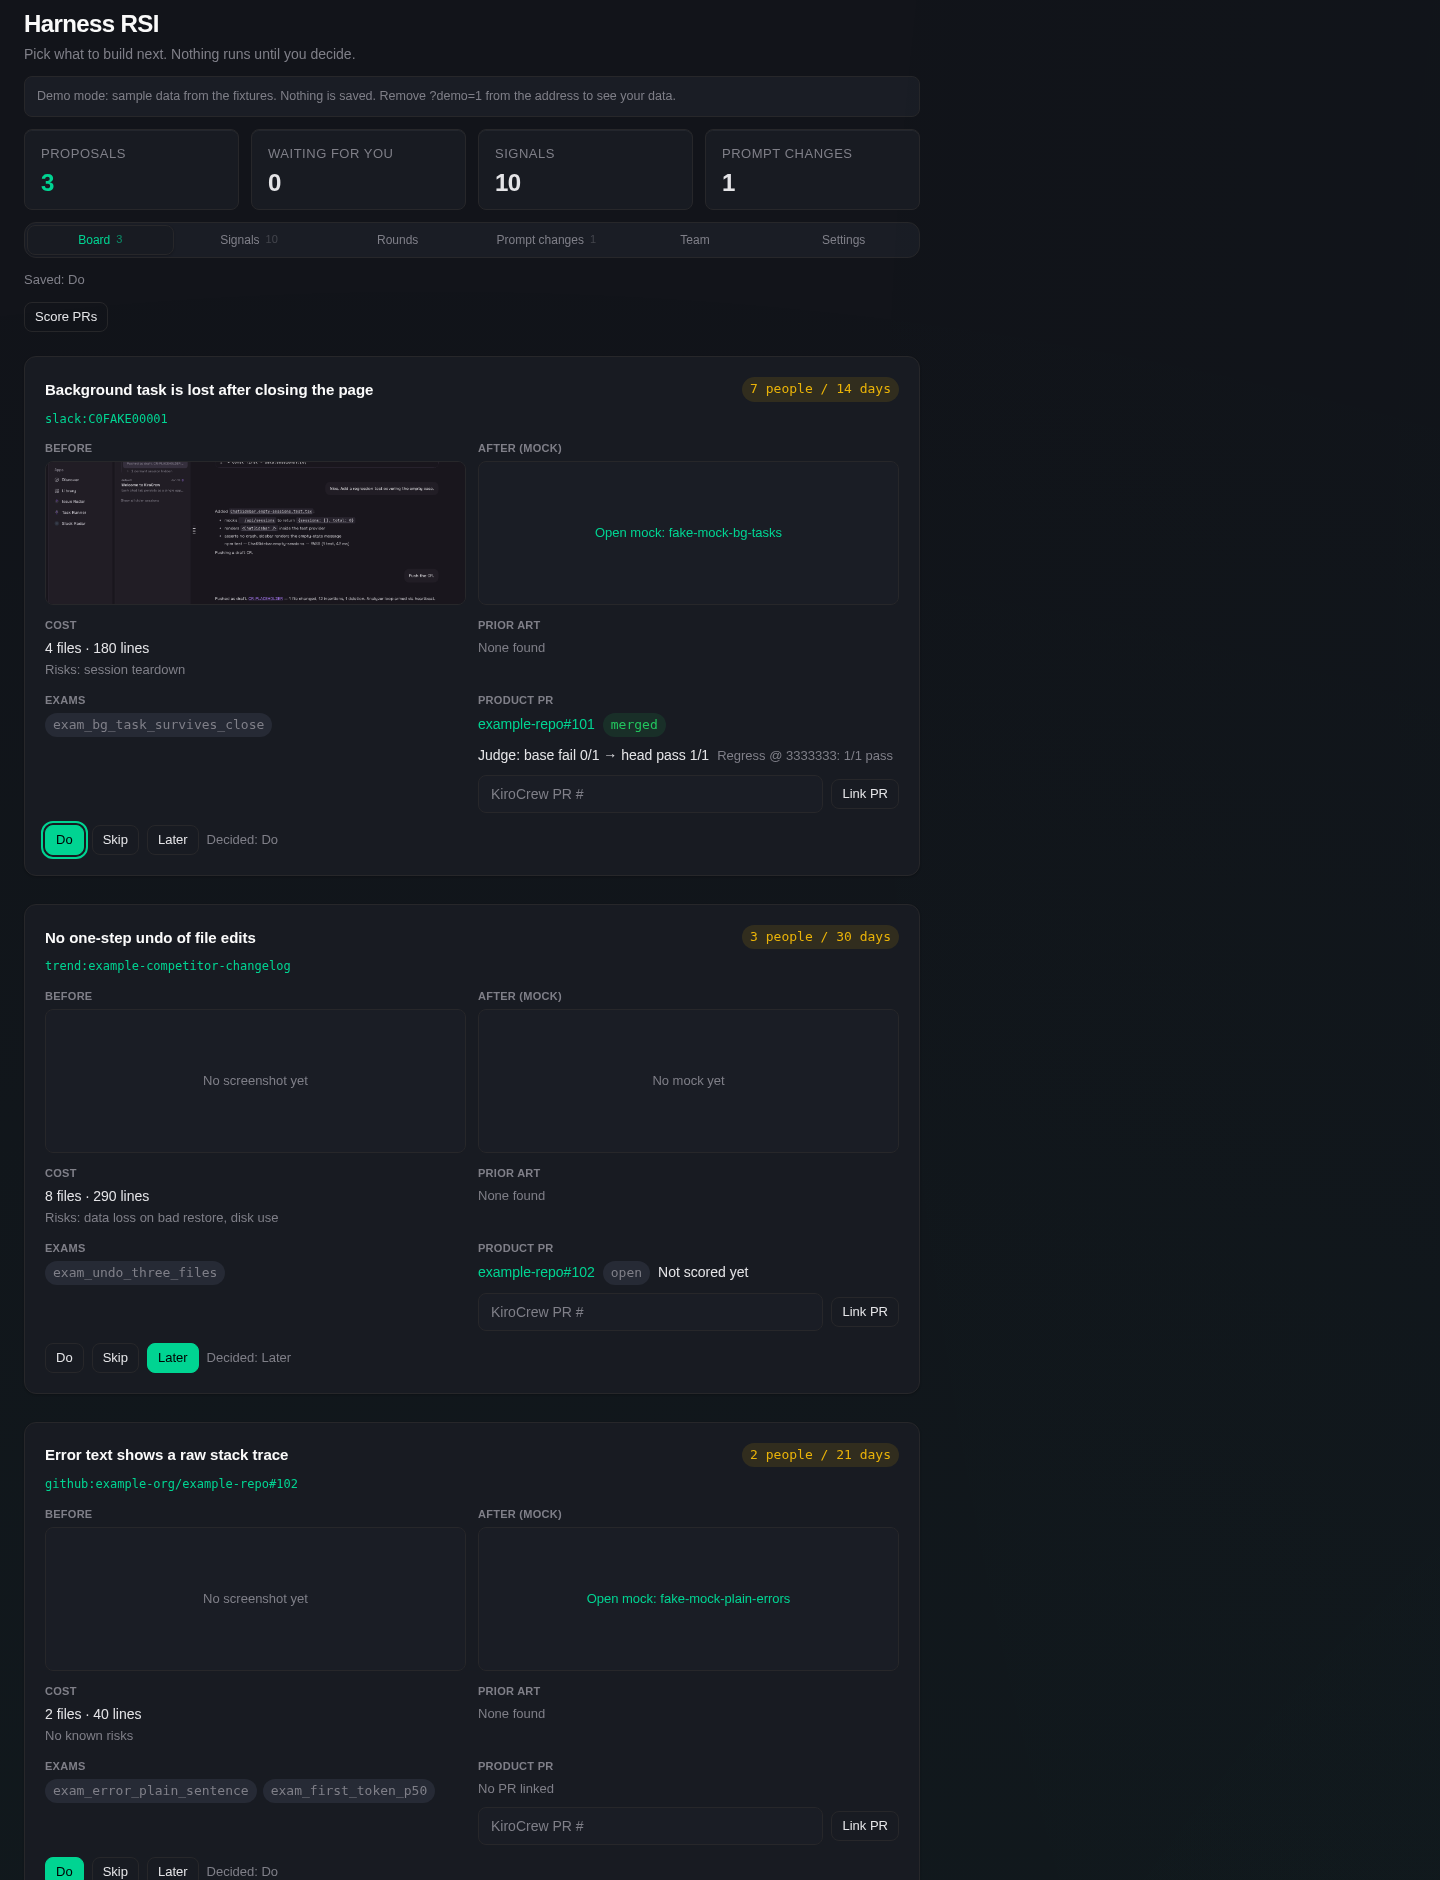
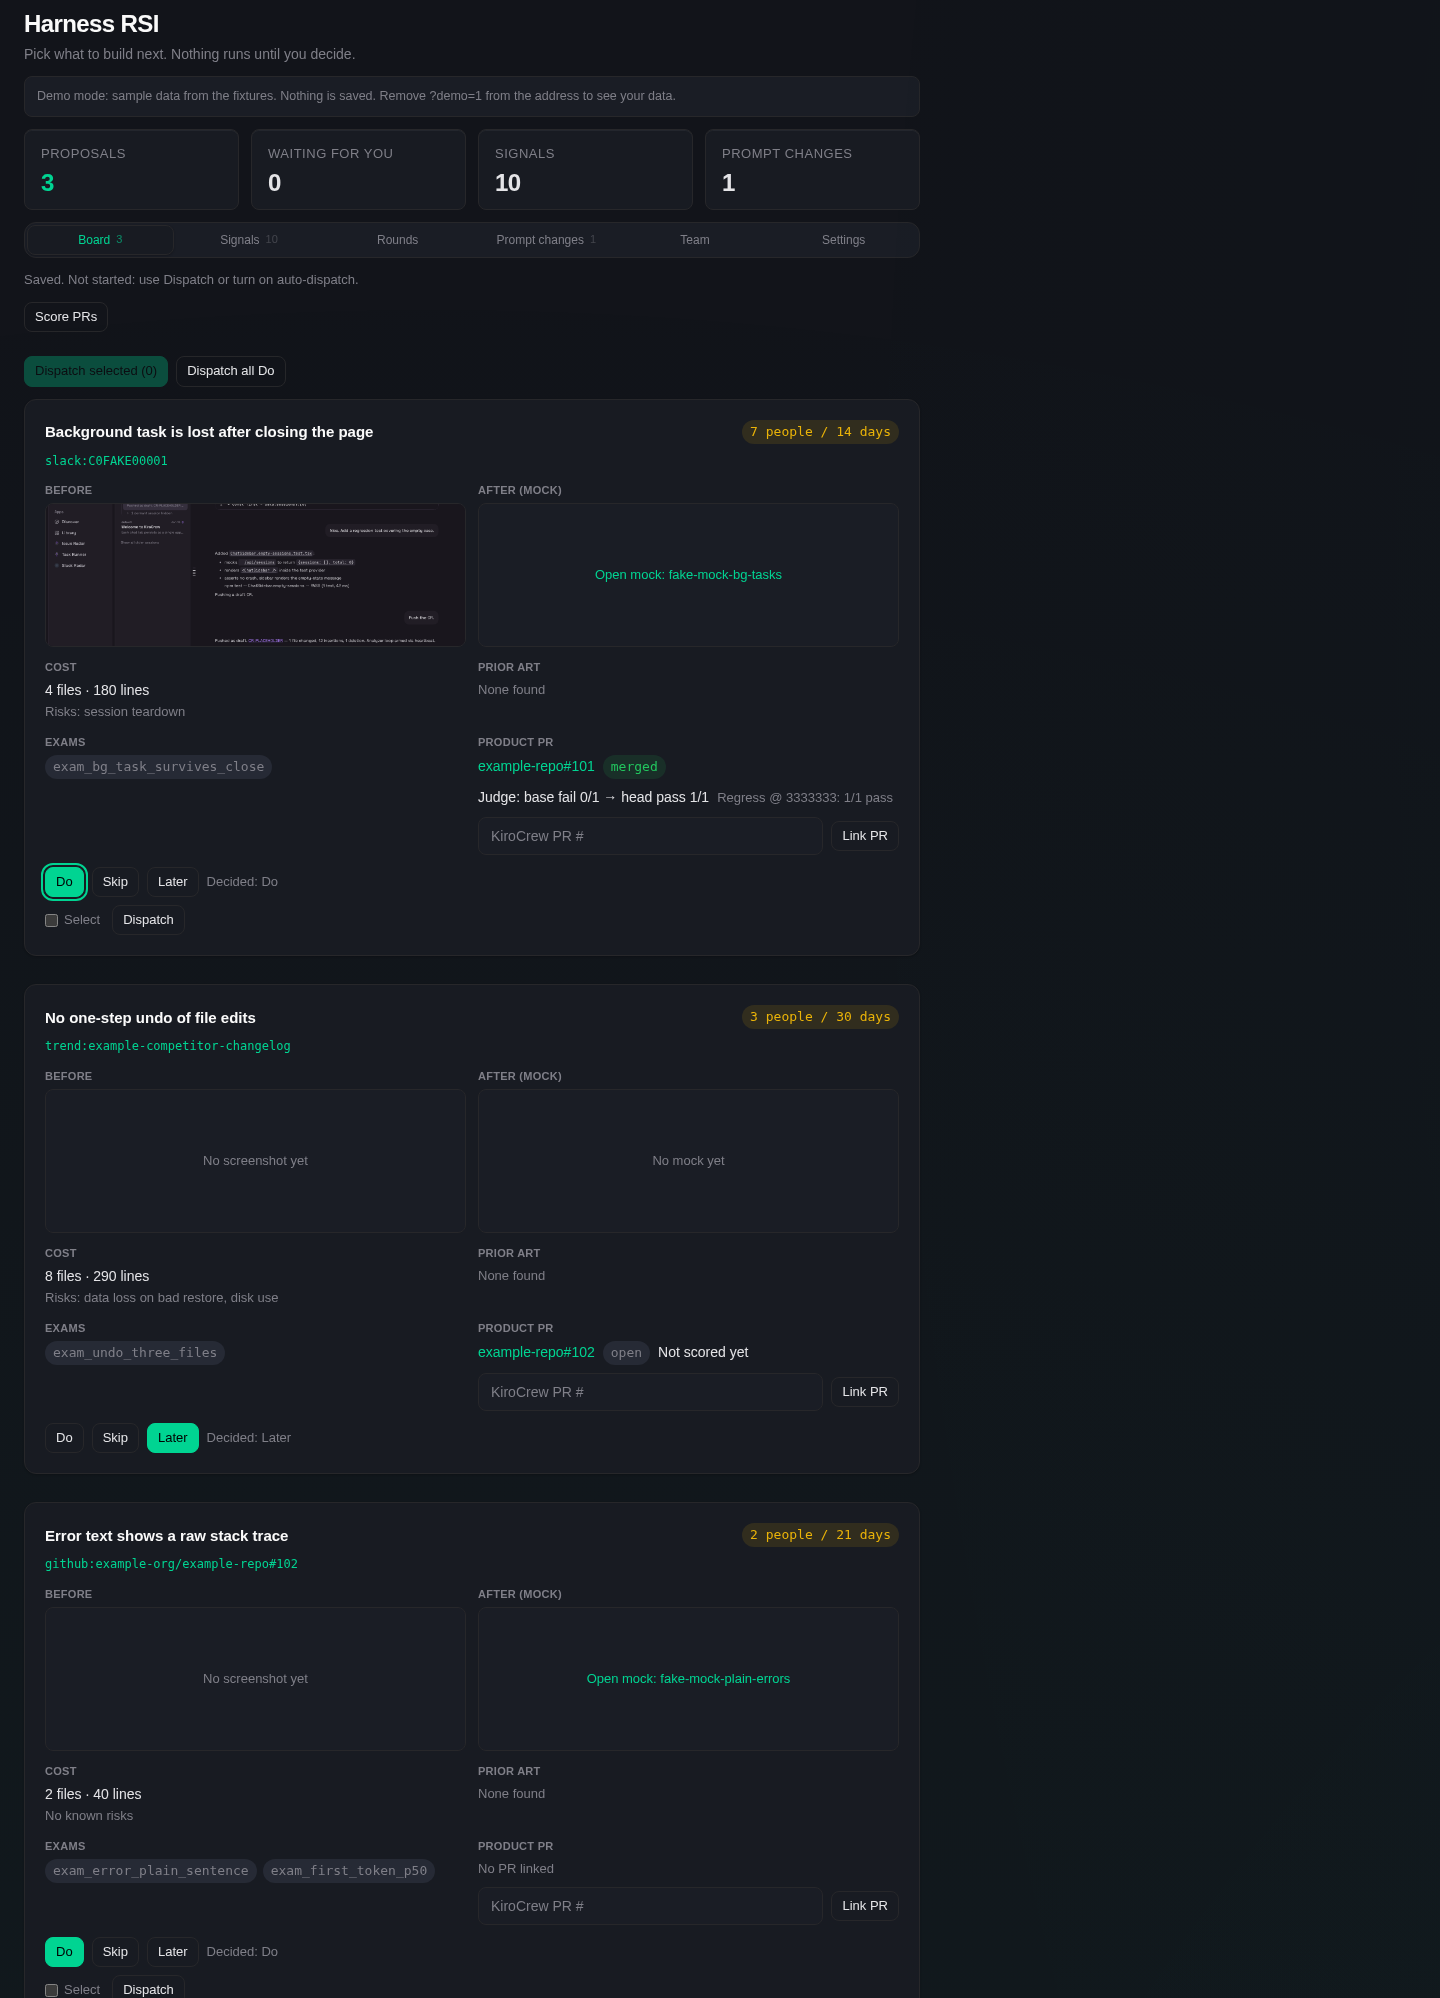
feat(dispatch): Dispatch button and batch dispatch, independent of auto-dispatch
POST /dispatch/start {proposal_ids} starts chosen Do cards whether
auto_dispatch is on or off, under the same allowlist, daily cap and
single-flight as on_do. One result per id: started, already, over_cap,
not_do or error. A refusal writes no row.

Board: a Dispatch button and a check box on each Do card with no live
chat, Dispatch selected (N) and Dispatch all Do; results show inline
with a link to the worker chat. Do with auto-dispatch off says how to
start it. Strings in en and zh; demo mode fakes the dispatch.

diff --git a/backend/dispatch.py b/backend/dispatch.py
@@ -1,7 +1,8 @@
 """Auto-dispatch, off by default: the owner's 做 on a proposal card opens ONE worker chat that builds it.
 
 Settings (``auto_dispatch``, the target-repo allowlist, the daily cap) live in the vault; only the
-owner-only ``POST /dispatch`` writes them. A dispatch goes through the gateway's ordinary app API with
+owner-only ``POST /dispatch`` writes them. ``POST /dispatch/start`` is the owner's Dispatch button: it
+starts chosen 做 cards whatever ``auto_dispatch`` says, under the same allowlist, cap and single-flight. A dispatch goes through the gateway's ordinary app API with
 this app's own token: ``POST /api/apps/harness-rsi/token`` -> ``POST /api/chat/slots`` (an app-owned
 chat the owner sees in the sidebar) -> ``POST /api/chat`` with the seed; the turn runs on after the
 stream is closed. ``dispatches.jsonl`` holds one row per change; the newest per card is
@@ -15,6 +16,7 @@ import datetime as dt
 import json
 import re
 import threading
+import urllib.parse
 
 from . import prompt_changes, settings, store
 
@@ -72,24 +74,27 @@ def _put(row):
     return row
 
 
-def claim(card_id, conf, clock=now):
-    """``(row, started)``: a new ``pending`` row when this click may dispatch, else the card's row as it is.
+def claim(card_id, conf, clock=now, record=True):
+    """``(row, outcome)``: ``started`` with a new ``pending`` row when this click may dispatch, else why not.
 
-    Single-flight: a card whose row is pending or dispatched is returned unchanged. A refusal (repo not
-    allowlisted, daily cap) is an error row with no ``pending`` row before it, so it uses none of the cap."""
+    Single-flight: a card whose row is pending or dispatched is returned unchanged as ``already``. A
+    refusal (``not_allowed``: repo not allowlisted; ``over_cap``: daily cap) has no ``pending`` row
+    before it, so it uses none of the cap; it is written as an error row only when ``record``."""
     with _LOCK:
         old = current(card_id)
         if old and old["state"] in ("pending", "dispatched"):
-            return old, False
+            return old, "already"
         t = clock()
         day = t.date().isoformat()  # each attempt writes one pending row: that is what the cap counts
         today = sum(1 for r in store._jsonl(FILE) if isinstance(r, dict) and r.get("state") == "pending" and str(r.get("at", "")).startswith(day))
         row = {"card_id": card_id, "repo": TARGET, "state": "pending", "session": None, "error": "", "at": t.isoformat(timespec="seconds")}
         if TARGET not in conf["repos"]:
-            return _put({**row, "state": "error", "error": f"{TARGET} is not on the allowlist in Settings"}), False
+            bad = {**row, "state": "error", "error": f"{TARGET} is not on the allowlist in Settings"}
+            return (_put(bad) if record else bad), "not_allowed"
         if today >= conf["daily_cap"]:
-            return _put({**row, "state": "error", "error": f"daily cap of {conf['daily_cap']} reached; try tomorrow"}), False
-        return _put(row), True
+            bad = {**row, "state": "error", "error": f"daily cap of {conf['daily_cap']} reached; try tomorrow"}
+            return (_put(bad) if record else bad), "over_cap"
+        return _put(row), "started"
 
 
 def finish(row, session=None, error=""):
@@ -158,14 +163,8 @@ async def open_chat(base, name, title, text):
     return key
 
 
-async def on_do(request, card):
-    """Dispatch ``card`` when the owner turned this on; its dispatch row, or None when off."""
-    conf = await asyncio.to_thread(read)
-    if not conf["auto_dispatch"]:
-        return None
-    row, started = await asyncio.to_thread(claim, card["id"], conf)
-    if not started:
-        return row
+async def _open(request, card, row):
+    """Seed and open the worker chat for a claimed ``row``; the finished row (dispatched or error)."""
     try:
         text = await asyncio.to_thread(lambda: seed(card, store.read_signals(), prior_art(card["id"])))
         if not (base := base_url(request)):
@@ -175,3 +174,48 @@ async def on_do(request, card):
         return await asyncio.to_thread(finish, row, key)
     except Exception as exc:  # noqa: BLE001 - the card shows why; the decision itself stands
         return await asyncio.to_thread(finish, row, None, f"{type(exc).__name__}: {str(exc)[:150]}")
+
+
+async def on_do(request, card):
+    """Dispatch ``card`` when the owner turned this on; its dispatch row, or None when off."""
+    conf = await asyncio.to_thread(read)
+    if not conf["auto_dispatch"]:
+        return None
+    row, outcome = await asyncio.to_thread(claim, card["id"], conf)
+    return await _open(request, card, row) if outcome == "started" else row
+
+
+def chat_link(session):
+    return f"/chat?slot={urllib.parse.quote(session, safe='')}"
+
+
+async def start(request, card_ids):
+    """The owner's Dispatch button, whatever ``auto_dispatch`` says: one result per id, in order.
+
+    ``started`` (chat key + link), ``already`` (the live row), ``over_cap`` (waiting for tomorrow),
+    ``not_do`` (not decided do), ``error`` (reason). Same allowlist, cap and single-flight as on_do;
+    a refusal here writes no row, so the card keeps its last real state."""
+    conf = await asyncio.to_thread(read)
+    cards = {p["id"]: p for p in await asyncio.to_thread(store.read_proposals)}
+    out = []
+    for cid in card_ids:
+        card = cards.get(cid)
+        if card is None:
+            out.append({"id": cid, "result": "error", "reason": "no such proposal"})
+            continue
+        if card["decision"] != "do":
+            out.append({"id": cid, "result": "not_do", "reason": "decide Do first"})
+            continue
+        row, outcome = await asyncio.to_thread(claim, cid, conf, now, False)
+        if outcome == "already":
+            out.append({"id": cid, "result": "already", "row": row,
+                        **({"session": row["session"], "link": chat_link(row["session"])} if row.get("session") else {})})
+        elif outcome == "over_cap":
+            out.append({"id": cid, "result": "over_cap", "reason": "waiting for tomorrow"})
+        elif outcome == "not_allowed":
+            out.append({"id": cid, "result": "error", "reason": row["error"]})
+        else:
+            done = await _open(request, card, row)
+            out.append({"id": cid, "result": "error", "reason": done["error"], "row": done} if done["state"] == "error"
+                       else {"id": cid, "result": "started", "session": done["session"], "link": chat_link(done["session"]), "row": done})
+    return out

diff --git a/tests/backend/test_dispatch.py b/tests/backend/test_dispatch.py
@@ -139,3 +139,73 @@ def test_the_seed_carries_the_card_signals_prior_art_and_rules(opened, tmp_path)
     for part in (p["id"], p["pain"], sig["pain"], "#42 CLOSED: An earlier try", "10 files and 300 lines",
                  "one small PR, drive CI green, do not merge", f"Put {p['id']} in the PR body"):
         assert part in text, part
+
+
+# Manual dispatch: POST /dispatch/start, whatever auto_dispatch says.
+DO, LATER, FRESH = "prop_plain_errors", "prop_one_step_undo", "prop_bg_tasks"  # fixture decisions: do, later, none
+
+
+def start(*ids, req=Sock):
+    return call(routes._dispatch_start, req({"proposal_ids": list(ids)}))
+
+
+def test_dispatch_starts_a_do_card_with_auto_dispatch_off(opened, tmp_path):
+    assert dispatch.read()["auto_dispatch"] is False
+    status, body = start(DO)
+    [r] = body["results"]
+    assert status == 200 and r["result"] == "started" and len(opened) == 1
+    assert r["session"] == opened[0]["name"] and r["link"] == f"/chat?slot={opened[0]['name']}"
+    assert body["dispatches"] == [r["row"]] and r["row"]["state"] == "dispatched"
+
+
+def test_dispatch_is_idempotent_per_card(opened, monkeypatch):
+    first = start(DO)[1]["results"][0]
+    again = start(DO, DO)[1]["results"]
+    assert len(again) == 1 and again[0]["result"] == "already" and again[0]["row"] == first["row"]
+    assert again[0]["link"] == first["link"] and len(opened) == 1
+    turn(monkeypatch, ON)  # auto-dispatch on top of a manual one: still one chat
+    assert do(DO)[1]["dispatch"] == first["row"] and len(opened) == 1
+
+
+def test_dispatch_refuses_a_card_not_decided_do(opened):
+    body = start(LATER, FRESH, "prop_nope")[1]
+    assert [(r["id"], r["result"]) for r in body["results"]] == [(LATER, "not_do"), (FRESH, "not_do"), ("prop_nope", "error")]
+    assert opened == [] and body["dispatches"] == []
+
+
+def test_dispatch_honors_the_daily_cap_and_writes_no_refusal_row(opened, monkeypatch, tmp_path):
+    turn(monkeypatch, {**dispatch.DEFAULTS, "daily_cap": 1})
+    do(FRESH)  # auto off: decided, not started
+    results = start(DO, FRESH)[1]["results"]
+    assert [r["result"] for r in results] == ["started", "over_cap"] and results[1]["reason"] == "waiting for tomorrow"
+    assert len(opened) == 1 and dispatch.current(FRESH) is None
+
+
+def test_dispatch_obeys_the_allowlist(opened, monkeypatch):
+    turn(monkeypatch, {**dispatch.DEFAULTS, "repos": ["someone/else"]})
+    [r] = start(DO)[1]["results"]
+    assert r["result"] == "error" and "not on the allowlist" in r["reason"] and opened == [] and dispatch.current(DO) is None
+
+
+def test_a_failed_open_is_an_error_result_and_may_retry(opened, monkeypatch):
+    async def down(*a):
+        raise ConnectionError("gateway refused")
+
+    monkeypatch.setattr(dispatch, "open_chat", down)
+    [r] = start(DO)[1]["results"]
+    assert r["result"] == "error" and r["reason"] == "ConnectionError: gateway refused" and dispatch.current(DO)["state"] == "error"
+    monkeypatch.setattr(dispatch, "open_chat", lambda *a: _done("rsi-retry"))
+    assert start(DO)[1]["results"][0]["session"] == "rsi-retry"
+
+
+def test_dispatch_is_owner_only_and_validates_the_body(opened):
+    assert start(DO, req=lambda b: Req(b, internal_auth=True))[0] == 403
+    for bad in ({}, {"proposal_ids": []}, {"proposal_ids": "x"}, {"proposal_ids": [1]}, {"proposal_ids": ["p"] * 51}):
+        assert call(routes._dispatch_start, Sock(bad))[0] == 400, bad
+    assert opened == []
+
+
+def test_auto_dispatch_off_still_starts_nothing_on_do(opened, tmp_path):
+    status, body = do(DO)
+    assert status == 200 and "dispatch" not in body
+    assert opened == [] and not (tmp_path / dispatch.FILE).exists()

diff --git a/backend/routes.py b/backend/routes.py
@@ -14,7 +14,8 @@ starts ``python -m backend.autoscore`` (single-flight; the tick does when scorin
 ``GET /prompt-changes`` lists the proposer's prompt-change cards; ``POST /prompt-changes/decide``
 records the owner's choice, and 做 applies the change (``backend.prompt_changes``).
 ``/dispatch``: the owner's opt-in auto-dispatch (``backend.dispatch``, off by default); when on, 做 on a
-proposal card opens one worker chat for it. A prompt-change card never dispatches.
+proposal card opens one worker chat for it. ``POST /dispatch/start`` is the owner's Dispatch button: it
+opens those chats for chosen 做 cards whether auto-dispatch is on or off. A prompt-change card never dispatches.
 ``GET /team`` folds the lead's and lanes' self-reported work-ledger snapshots (``backend.team``).
 No timer in the gateway; loading the routes seals the data dir once (``judge.seal.migrate``, idempotent).
 """
@@ -323,6 +324,20 @@ async def _dispatch_post(request, ctx):
     return await _save(request, dispatch, "dispatch", dict)
 
 
+MAX_START = 50
+
+
+async def _dispatch_start(request, ctx):
+    """Owner-only Dispatch: ``{proposal_ids: [...]}`` -> one result per distinct id (``dispatch.start``)."""
+    if not _owner(request):
+        return _err(403, "owner_only", "only the dashboard owner can dispatch")
+    ids = (await _body(request) or {}).get("proposal_ids")
+    if not (isinstance(ids, list) and 0 < len(ids) <= MAX_START and all(isinstance(i, str) for i in ids)):
+        return _err(400, "bad_ids", f"proposal_ids must be 1-{MAX_START} proposal ids")
+    results = await dispatch.start(request, list(dict.fromkeys(ids)))
+    return web.json_response({"ok": True, "results": results, "dispatches": await asyncio.to_thread(dispatch.rows)})
+
+
 async def _team(request, ctx):
     return web.json_response({"ok": True, "team": await asyncio.to_thread(team.view)})
 
@@ -374,6 +389,7 @@ def register_routes(ctx):
         AppRoute(method="POST", path="/score/run", handler=_score_post),
         AppRoute(method="GET", path="/dispatch", handler=_dispatch_get),
         AppRoute(method="POST", path="/dispatch", handler=_dispatch_post),
+        AppRoute(method="POST", path="/dispatch/start", handler=_dispatch_start),
         AppRoute(method="GET", path="/prompt-changes", handler=_prompt_changes),
         AppRoute(method="POST", path="/prompt-changes/decide", handler=_prompt_decide),
         AppRoute(method="GET", path="/team", handler=_team),

diff --git a/tests/backend/test_backend.py b/tests/backend/test_backend.py
@@ -218,6 +218,7 @@ def test_disabled_app_registers_nothing(tmp_path, monkeypatch):
                    ("GET", "/refresh/status"), ("GET", "/settings"), ("POST", "/settings"), ("GET", "/regress"),
                    ("POST", "/round/run"), ("GET", "/round/status"), ("GET", "/schedule"), ("POST", "/schedule"),
                    ("POST", "/schedule/tick"), ("GET", "/outcomes"), ("POST", "/outcomes/link"),
-                   ("POST", "/score/run"), ("GET", "/dispatch"), ("POST", "/dispatch"), ("GET", "/prompt-changes"), ("POST", "/prompt-changes/decide"),
+                   ("POST", "/score/run"), ("GET", "/dispatch"), ("POST", "/dispatch"),
+                   ("POST", "/dispatch/start"), ("GET", "/prompt-changes"), ("POST", "/prompt-changes/decide"),
                    ("GET", "/team")]
     assert not (tmp_path / "d").exists()
